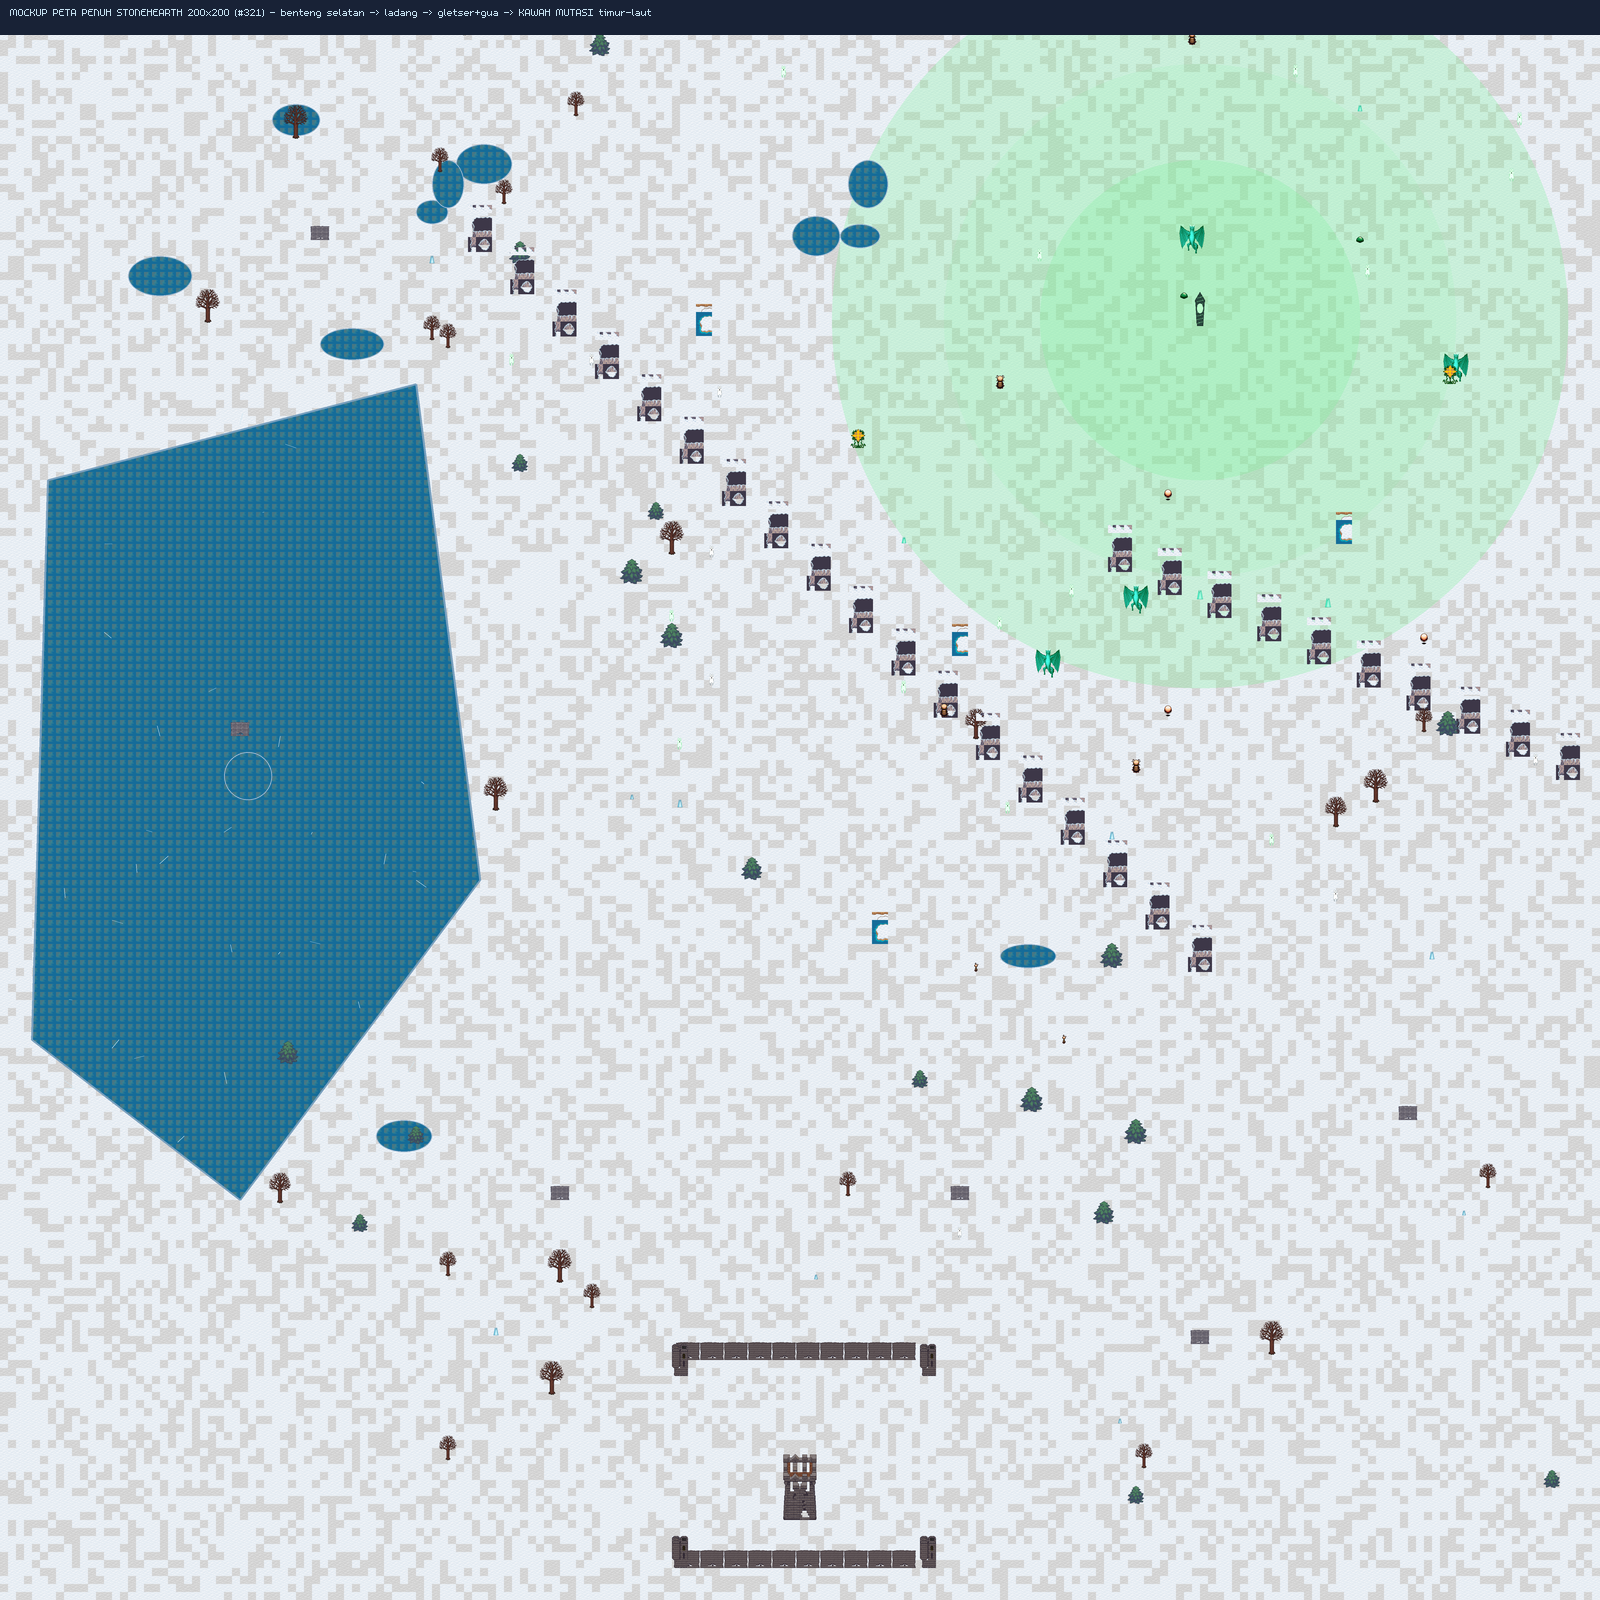
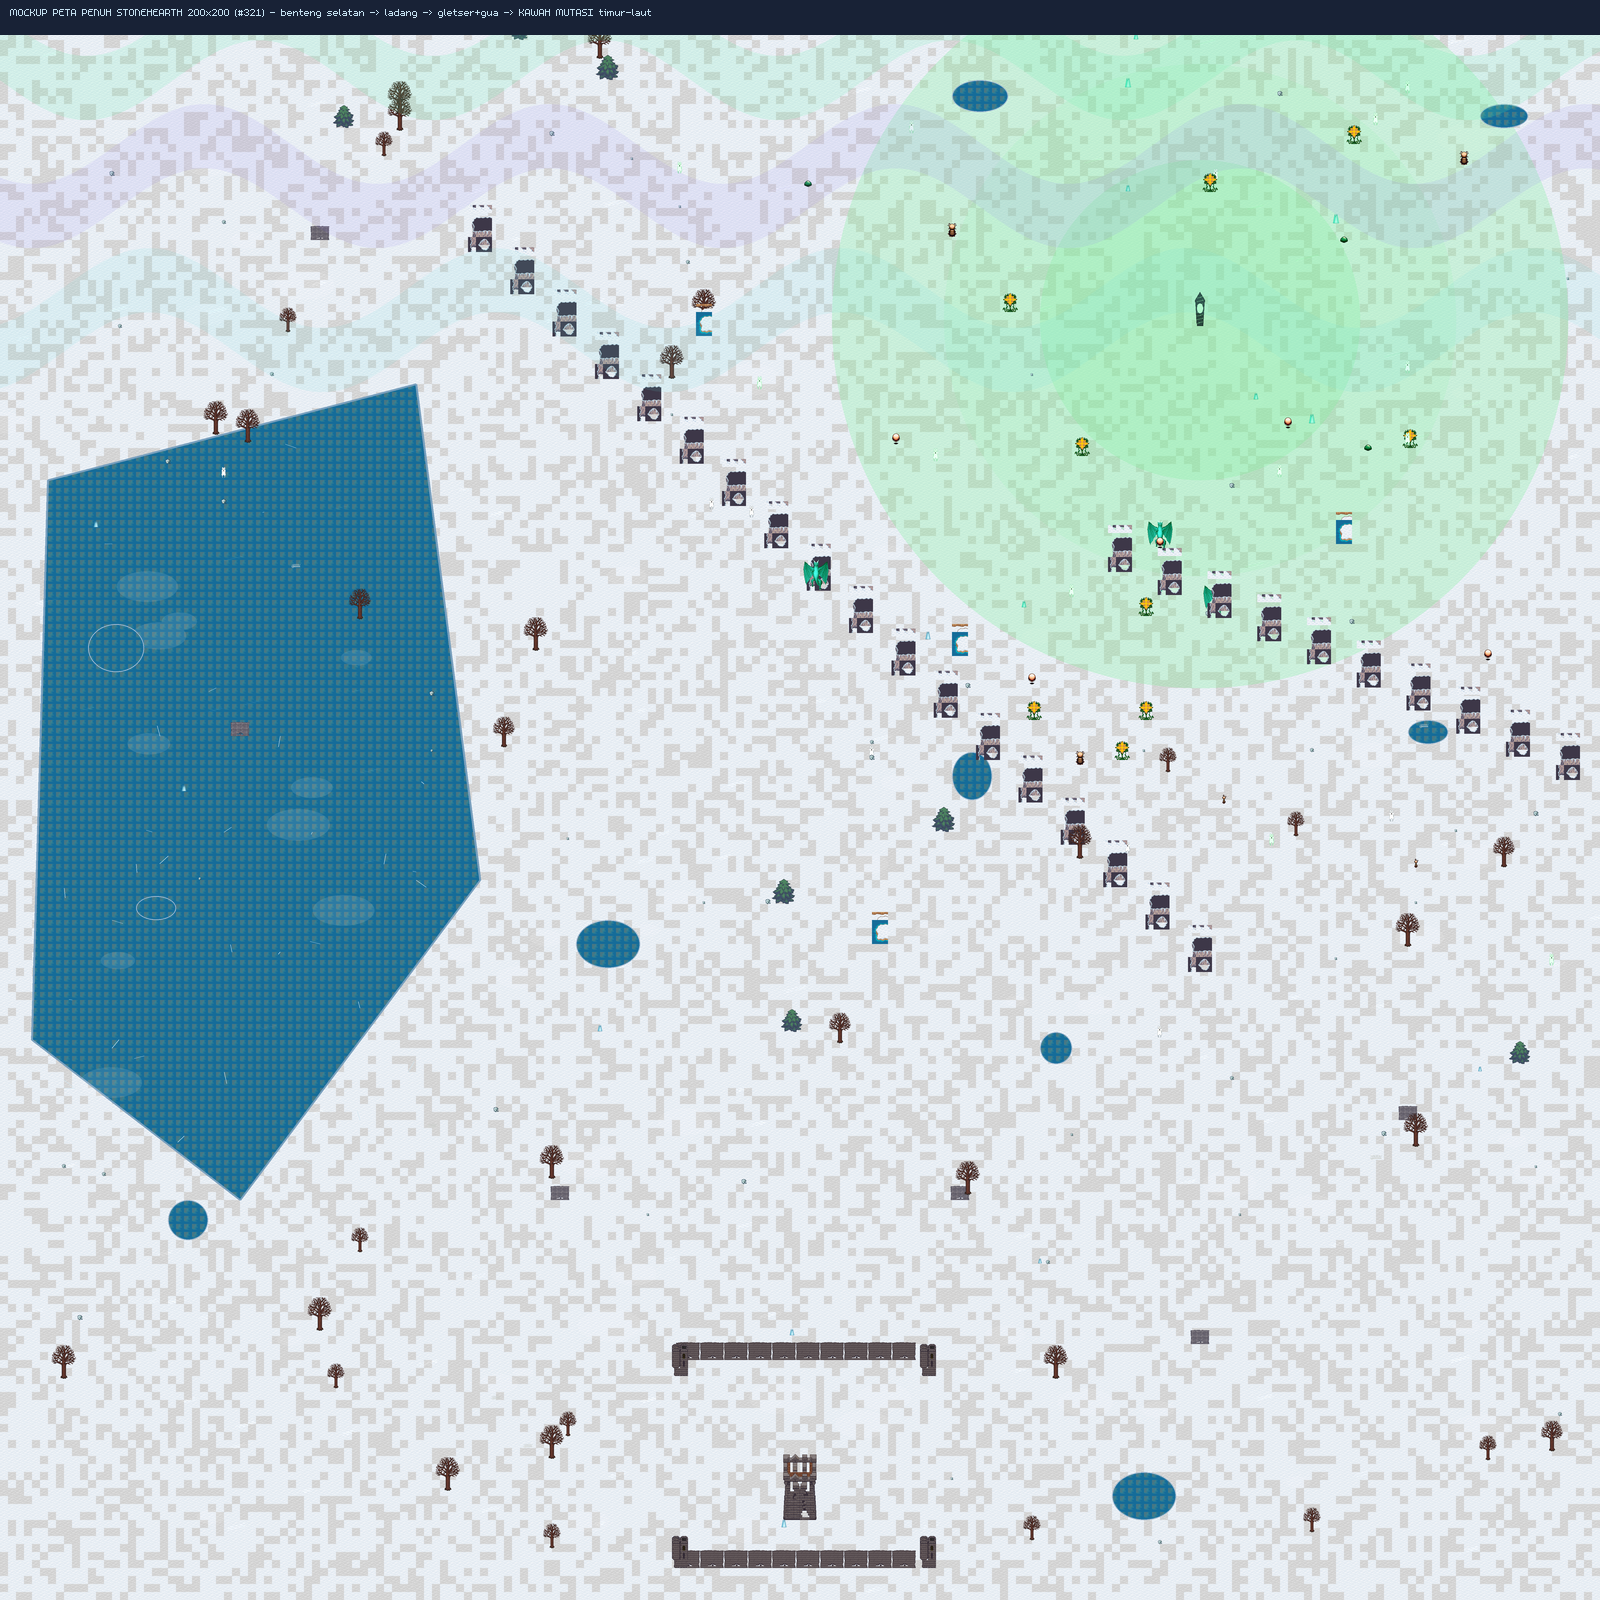
docs(#321): Stonehearth peta - atmosfer (aurora, drift, angin, batu es, bangkai)
Naikkan kekayaan visual tanpa ganti gaya (koheren 32px LPC): pita aurora
hijau-ungu langit utara, gundukan salju, sapuan angin, batu es, bangkai
karavan (gambar-sendiri). Kandidat non-LPC ditinjau: 16px platformer
(perspektif salah) / clash dgn monster LPC 32px - dicatat untuk Direktur.

diff --git a/_tools/mockup_stonehearth.py b/_tools/mockup_stonehearth.py
@@ -321,6 +321,20 @@ def peta():
 		dd0.line([(cx * T, cy * T), (cx * T + rr.randint(-46, 46), cy * T + rr.randint(-46, 46))],
 			fill=(210, 232, 244, 200), width=2)
 
+	# GUNDUKAN SALJU (drift) — blotch lebih terang, memecah datar
+	drift = Image.new("RGBA", (W, W), (0, 0, 0, 0))
+	dd_dr = ImageDraw.Draw(drift)
+	for _ in range(70):
+		dx = rr.randint(0, W); dy = rr.randint(0, W); dr2 = rr.randint(40, 130)
+		dd_dr.ellipse([dx - dr2, dy - int(dr2 * 0.5), dx + dr2, dy + int(dr2 * 0.5)],
+			fill=(255, 255, 255, 26))
+	im.alpha_composite(drift)
+	# SAPUAN ANGIN halus (streak diagonal)
+	dw_ = ImageDraw.Draw(im, "RGBA")
+	for _ in range(120):
+		wx = rr.randint(0, W); wy = rr.randint(0, W); ln = rr.randint(30, 90)
+		dw_.line([(wx, wy), (wx + ln, wy - int(ln * 0.25))], fill=(255, 255, 255, 30), width=1)
+
 	# NODA MUTASI timur-laut (radial hijau di atas salju)
 	cxm, cym = 150, 40
 	nd = Image.new("RGBA", (W, W), (0, 0, 0, 0))
@@ -460,8 +474,41 @@ def peta():
 		elif rr.random() < 0.25:
 			taruh(kristal(rr.choice([0.8, 1.0, 1.2])), kx, ky, 1.0)
 
+	# BATU ES (repo rock disepuh biru) + BANGKAI karavan (gambar-sendiri)
+	rock = Image.open(os.path.join(G, "sprites", "props", "rock.png")).convert("RGBA")
+	rock_es = geser_rona(rock, 6, 22, 40)
+	for _ in range(50):
+		rx0 = rr.randint(4, NN - 4); ry0 = rr.randint(4, NN - 4)
+		if 80 <= rx0 <= 118 and 160 <= ry0 <= 200:
+			continue
+		taruh(rock_es, rx0, ry0, rr.choice([0.7, 1.0, 1.3]))
+	def bangkai():
+		b = Image.new("RGBA", (40, 26), (0, 0, 0, 0))
+		db = ImageDraw.Draw(b)
+		db.line([(4, 20), (36, 20)], fill=(210, 214, 210, 255), width=2)      # tulang belakang
+		for rx2 in range(8, 34, 5):
+			db.line([(rx2, 20), (rx2 - 4, 10)], fill=(198, 202, 198, 255))    # iga
+			db.line([(rx2, 20), (rx2 + 4, 10)], fill=(198, 202, 198, 255))
+		db.ellipse([2, 14, 12, 24], outline=(210, 214, 210, 255))             # tengkorak
+		return b
+	for _ in range(9):
+		bx = rr.randint(10, NN - 10); by = rr.randint(10, NN - 10)
+		if math.hypot(bx - cxm, by - cym) < 40 or (80 <= bx <= 118 and 160 <= by <= 200):
+			continue
+		taruh(bangkai(), bx, by, rr.choice([1.0, 1.3]))
+
 	for kaki, img, x, y in sorted(sprites, key=lambda s: s[0]):
 		im.alpha_composite(img, (x, max(0, y)))
+
+	# AURORA — pita hijau-ungu tembus di langit utara (kesan dingin fantasi)
+	aur = Image.new("RGBA", (W, W), (0, 0, 0, 0))
+	da = ImageDraw.Draw(aur)
+	for i, (col, yb) in enumerate([((90, 240, 170, 40), 6), ((150, 130, 240, 32), 22),
+			((100, 220, 220, 28), 40)]):
+		for x in range(0, W, 6):
+			yy = yb * T + int(math.sin(x / 220.0 + i) * 5 * T)
+			da.line([(x, yy - 4 * T), (x, yy + 4 * T)], fill=col, width=7)
+	im.alpha_composite(aur)
 
 	out = im.resize((W // 4, W // 4), Image.LANCZOS).convert("RGB")
 	d = ImageDraw.Draw(out)
